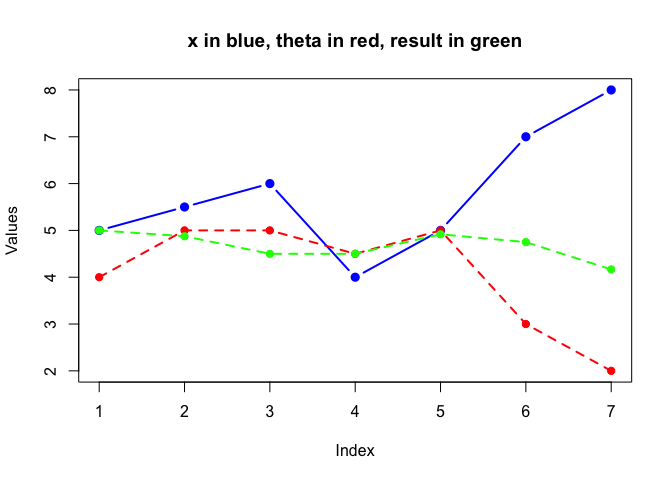
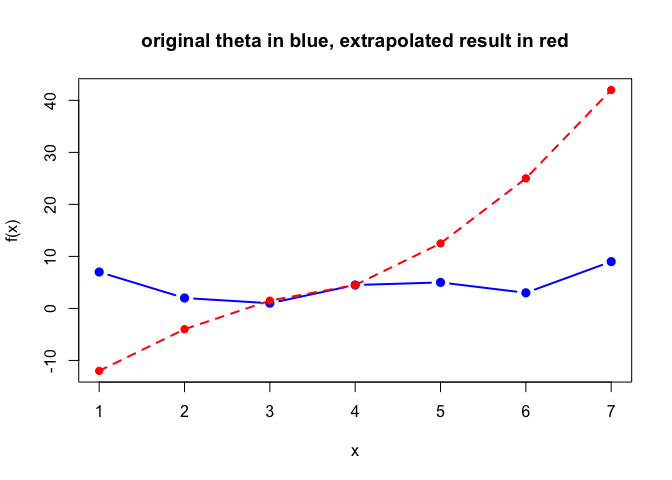
update plot and readme

diff --git a/README.md b/README.md
@@ -10,11 +10,11 @@
 # Overview
 
 This package provides tools for performing natural spline polynomial
-extrapolations on the boundary points of a given signal and the filtered
-signal. In methods like **trend filtering**, boundary points often fail
-to converge well at the two ends. This package addresses the issue by
-replacing the boundary values with natural spline polynomial
-extrapolations.
+extrapolations on the boundary points of a given input vector **x** and
+a given corresponding vector **f(x)**. In methods like **trend
+filtering**, boundary points often fail to converge well at the two
+ends. This package addresses the issue by replacing the boundary values
+with natural spline polynomial extrapolations.
 
 The package includes functions to compute extrapolation matrices and
 perform compact and non-compact extrapolations. It is especially useful
@@ -33,8 +33,8 @@ Performs natural spline extrapolation in a **compact** form using a
 formula-based approach.
 
 - **Inputs:**
-  - `x`: A numeric vector of signal values (ordered).
-  - `theta`: A numeric vector of denoised values corresponding to `x`.
+  - `x`: A numeric vector of inputs.
+  - `theta`: A numeric vector corresponding to `f(x)`.
   - `m`: Degree of the polynomial extrapolation.
   - `side`: `"left"` or `"right"` indicating which boundary to
     extrapolate.
@@ -89,17 +89,17 @@ Creates a plot comparing the original signal (`x`), the denoised signal
 library(NaturalSpline)
 
 # Input signal
-x <- c( 5, 5.5, 6, 4, 5, 7, 8)
-theta <- c( 4, 5, 5, 4.5, 5, 3, 2)
+x <- c( 1, 2, 3, 4, 5, 6, 7)
+theta <- c( 7, 2, 1, 4.5, 5, 3, 9)
 m <- 3
 
 # Perform extrapolation using the compact formula
 left_result <- extrapolate_compact(x, theta, m, side = "left")
 right_result <- extrapolate_compact(x, theta, m, side = "right")
 print(left_result)
-#> [1] 5.000 4.875 4.500
+#> [1] -12.0  -4.0   1.5
 print(right_result)
-#> [1] 4.916667 4.750000 4.166667
+#> [1] 12.5 25.0 42.0
 
 # Visualize results
 plot_extrapolation(x, theta, m)
@@ -119,15 +119,19 @@ pak::pak("zhoumo2716/NaturalSpline")
 #> 
 #> → Will update 1 package.
 #> → Will download 1 package with unknown size.
-#> + NaturalSpline 0.0.0.9000 → 0.0.0.9000 👷🏽♂🔧 ⬇ (GitHub: b873feb)
+#> + NaturalSpline 0.0.0.9000 → 0.0.0.9000 👷♀🔧 ⬇ (GitHub: d756494)
 #> 
 #> ! NaturalSpline is loaded in the current R session, you probably need to
 #> restart R after the installation.
 #> 
 #> ℹ Getting 1 pkg with unknown size
-#> ✔ Cached copy of NaturalSpline 0.0.0.9000 (source) is the latest build
-#> ✔ Installed NaturalSpline 0.0.0.9000 (github::zhoumo2716/NaturalSpline@b873feb) (20ms)
-#> ✔ 1 pkg: upd 1 [2.9s]
+#> ✔ Got NaturalSpline 0.0.0.9000 (source) (46.17 kB)
+#> ℹ Packaging NaturalSpline 0.0.0.9000
+#> ✔ Packaged NaturalSpline 0.0.0.9000 (598ms)
+#> ℹ Building NaturalSpline 0.0.0.9000
+#> ✔ Built NaturalSpline 0.0.0.9000 (744ms)
+#> ✔ Installed NaturalSpline 0.0.0.9000 (github::zhoumo2716/NaturalSpline@d756494) (21ms)
+#> ✔ 1 pkg: upd 1, dld 1 (NA B) [10.7s]
 ```
 
 Or with `devtools`
@@ -135,14 +139,14 @@ Or with `devtools`
 ``` r
 # Install the devtools package if not already installed
 install.packages("devtools")
-#> Installing package into '/private/var/folders/74/4fh__5010_l3tp8fpsft2ft00000gn/T/Rtmp7cgdkG/temp_libpath7f78715c28e5'
+#> Installing package into '/private/var/folders/74/4fh__5010_l3tp8fpsft2ft00000gn/T/RtmpiaGPmS/temp_libpathe7c335a90161'
 #> (as 'lib' is unspecified)
 #> 
 #> The downloaded binary packages are in
-#>  /var/folders/74/4fh__5010_l3tp8fpsft2ft00000gn/T//RtmpWsSsNM/downloaded_packages
+#>  /var/folders/74/4fh__5010_l3tp8fpsft2ft00000gn/T//RtmpAL5Dvs/downloaded_packages
 
 # Install the NaturalSpline package from GitHub
 devtools::install_github("zhoumo2716/NaturalSpline")
-#> Skipping install of 'NaturalSpline' from a github remote, the SHA1 (b873febd) has not changed since last install.
+#> Skipping install of 'NaturalSpline' from a github remote, the SHA1 (d7564940) has not changed since last install.
 #>   Use `force = TRUE` to force installation
 ```
